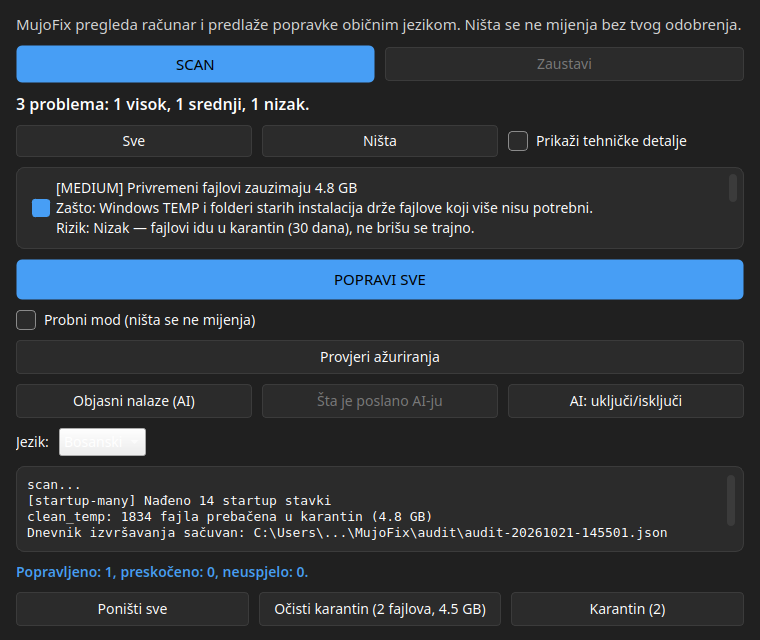
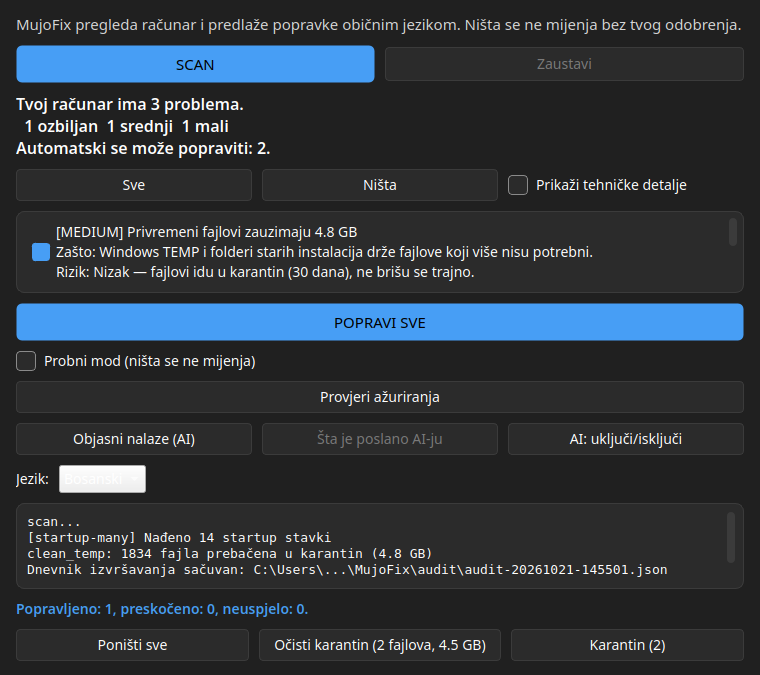
feat(ui): sazetak kaze koliko se problema moze automatski popraviti
Nakon sto je katalog porastao (7 -> 10 akcija), korisnik u sazetku odmah vidi
koliko nalaza ima popravku, a koliko su samo preporuke.

- main_window `_on_scan_done`: pored broja po ozbiljnosti racuna i
  `finding_to_actions` (koliko je popravljivo); ako nijedan nema akciju,
  izricito kaze da su to preporuke
- i18n: `summary_fixable`, `summary_no_autofix` (bs+en)
- testovi: sazetak kaze "Automatski se moze popraviti: 1." za mjesovite nalaze i
  "Nijedan nalaz nema automatsku popravku" kad nema akcija
- README bs+en (nova stavka SAZETAK), CHANGELOG, STATUS
- snimke regenerisane (novi red u sazetku)
269 testova

diff --git a/tests/test_faza3.py b/tests/test_faza3.py
@@ -155,6 +155,28 @@ class TestGuiFlow(unittest.TestCase):
             self.assertIsNone(result.state)
             self.assertIn("dry-run", result.message)
 
+    def test_summary_says_how_many_are_fixable(self):
+        """Sažetak mora reći koliko nalaza ima automatsku popravku."""
+        with tempfile.TemporaryDirectory() as data:
+            window, qtmp = self.make_window(
+                [disk_temp_finding(data), unknown_finding()])
+            try:
+                text = window.lbl_summary.text()
+                self.assertIn("2 problema", text)
+                self.assertIn("Automatski se može popraviti: 1.", text)
+            finally:
+                window.close()
+                qtmp.cleanup()
+
+    def test_summary_says_when_nothing_is_fixable(self):
+        window, qtmp = self.make_window([unknown_finding()])
+        try:
+            self.assertIn("Nijedan nalaz nema automatsku popravku",
+                          window.lbl_summary.text())
+        finally:
+            window.close()
+            qtmp.cleanup()
+
     def test_language_choice_is_saved_and_needs_restart(self):
         """Jezik je bio provucen kroz kod ali se nije mogao izabrati u UI-ju."""
         from mujofix.ui.main_window import store_lang, stored_lang

diff --git a/mujofix/i18n/strings.py b/mujofix/i18n/strings.py
@@ -392,6 +392,9 @@ STRINGS = {
                              "verziju"),
         "cli_summary": ("Tvoj računar ima {n} problema.\n"
                          "  {c} ozbiljna  {m} srednja  {l} mala"),
+        "summary_fixable": "Automatski se može popraviti: {n}.",
+        "summary_no_autofix": "Nijedan nalaz nema automatsku popravku — "
+                              "vidi preporuke u nalazima.",
         "ai_settings": "AI: uključi/isključi",
         "audit_saved": "Dnevnik izvršavanja sačuvan: {p}",
         "audit_failed": "Dnevnik nije sačuvan: {e}",
@@ -786,6 +789,9 @@ STRINGS = {
                              "the old version"),
         "cli_summary": ("Your computer has {n} problems.\n"
                          "  {c} critical  {m} medium  {l} low"),
+        "summary_fixable": "Can be fixed automatically: {n}.",
+        "summary_no_autofix": "No finding has an automatic fix — see the "
+                              "recommendations in the findings.",
         "ai_settings": "AI: on/off",
         "audit_saved": "Run log saved: {p}",
         "audit_failed": "Run log not saved: {e}",

diff --git a/mujofix/ui/main_window.py b/mujofix/ui/main_window.py
@@ -353,10 +353,14 @@ class MainWindow(QMainWindow):
         if total == 0:
             self.lbl_summary.setText(self._t("summary_none"))
         else:
+            fixable = sum(1 for finding in self._findings
+                          if finding_to_actions(finding))
             self.lbl_summary.setText(
                 self._t("summary_many", n=total) + "\n"
                 + self._t("sev_line", c=counts["CRITICAL"],
-                          m=counts["MEDIUM"], l=counts["LOW"]))
+                          m=counts["MEDIUM"], l=counts["LOW"])
+                + "\n" + (self._t("summary_fixable", n=fixable)
+                           if fixable else self._t("summary_no_autofix")))
         self._render_list()
         self.btn_fix.setEnabled(total > 0)
         self.btn_explain.setEnabled(total > 0)

diff --git a/scripts/make_screenshots.py b/scripts/make_screenshots.py
@@ -61,7 +61,10 @@ def shoot(name: str, dark: bool) -> str:
                         ai_build_fn=lambda *a, **k: None)
     window._findings = [dict(f) for f in FINDINGS]
     window._render_list()
-    window.lbl_summary.setText("3 problema: 1 visok, 1 srednji, 1 nizak.")
+    window.lbl_summary.setText(
+        "Tvoj računar ima 3 problema.\n"
+        "  1 ozbiljan  1 srednji  1 mali\n"
+        "Automatski se može popraviti: 2.")
     window.lbl_report.setText("Popravljeno: 1, preskočeno: 0, neuspjelo: 0.")
     for button in (window.btn_fix, window.btn_explain, window.btn_undo):
         button.setEnabled(True)

diff --git a/README.en.md b/README.en.md
@@ -58,6 +58,7 @@ $a -eq $b   # must print True
 
 1. **SCAN** — scanner plugins run **in sequence**, progress bar, cancellable. A module error never crashes the app — it becomes a *skipped* entry.
 2. **ANALYZE** — each finding: severity (`CRITICAL / MEDIUM / LOW`), impact, fix risk, reversibility flag.
+2b. **SUMMARY** — how many issues, by severity, and **how many can be fixed automatically** (findings without an action are recommendations).
 3. **PLAN** — AI drafts steps and order (action + target from the catalog); every step passes the validator before it is even shown. User approves.
 4. **EXECUTE → VERIFY → ROLLBACK** — per-step snapshots; failed verification restores the step automatically.
 5. **REPORT** — count of fixed / skipped / failed steps, **how much is in quarantine**, and after cleanup the **freed GB**, plus **"Undo all"** via rollback points. (Boot time is not measured anywhere in the code — see `scanners/startup.py`.)

diff --git a/README.md b/README.md
@@ -69,6 +69,7 @@
   <li><b>IZVRŠENJE</b> — prije svakog koraka snapshot/rollback tačka, pa izvršenje.</li>
   <li><b>VERIFIKACIJA</b> — nakon svakog koraka ponovo se izmjeri isto što je nalaz detektovao i potvrdi da je problem stvarno riješen.</li>
   <li><b>ROLLBACK</b> — ako verifikacija padne ili se stanje pogorša, korak se <b>automatski vraća</b> i korisnik se izvijesti.</li>
+  <li><b>SAŽETAK</b> — koliko je problema, po ozbiljnosti, i <b>koliko ih se može automatski popraviti</b> (nalazi bez akcije su preporuke).</li>
   <li><b>IZVJEŠTAJ</b> — broj popravljenih / preskočenih / neuspjelih koraka, <b>koliko je u karantinu</b> i, poslije čišćenja, <b>oslobođeni GB</b> + opcija <b>"Poništi sve"</b> preko rollback tačaka. (Vrijeme boot-a se ne mjeri nigdje u kodu — vidi <code>scanners/startup.py</code>.)</li>
 </ol>
 

diff --git a/docs/STATUS.md b/docs/STATUS.md
@@ -94,6 +94,11 @@
   u dev-u). Dokaz bez servera i bez modela: `opencode debug config` sa
   izolovanim config-home pokaze nas agent, 11 alata `deny`, samo nas MCP, 0
   pluginova (testovi u `test_phase0_spike.py`); spike CHECK 2 je prepisan na to.
+- SAZETAK 2026-10-22: GUI sazetak sada, pored broja problema po ozbiljnosti,
+  kaze i KOLIKO IH SE MOZE AUTOMATSKI POPRAVITI (`finding_to_actions`); ako
+  nijedan nema akciju, izricito kaze da su to preporuke. Dvojezicno
+  (`summary_fixable`/`summary_no_autofix`). Testovi u `test_faza3` (2).
+  Snimke regenerisane (novi red u sazetku).
 - AKCIJA 2026-10-22 (3. nova): `permissions-shares` („nedefault dijeljeni
   folderi") je bio bez akcije. `mujofix/actions/share.py` (`remove_share`):
   snapshot iz `net share <ime>` pamti putanju i remark, apply je `/delete`,

diff --git a/CHANGELOG.md b/CHANGELOG.md
@@ -3,6 +3,9 @@
 ## [0.4.0] (u razvoju — nije objavljeno)
 
 ### Dodano
+- **Sažetak kaže koliko se problema može automatski popraviti** (pored broja
+  po ozbiljnosti); ako nijedan nalaz nema akciju, to izričito kaže i upućuje
+  na preporuke. Snimke u README-u regenerisane.
 - **Nova akcija `remove_share`:** nalaz `permissions-shares` nije imao
   popravku. Snapshot pamti putanju i remark (`net share <ime>`), apply je
   `/delete`, verify traži da share nema, rollback ga vraća. Administrativni
